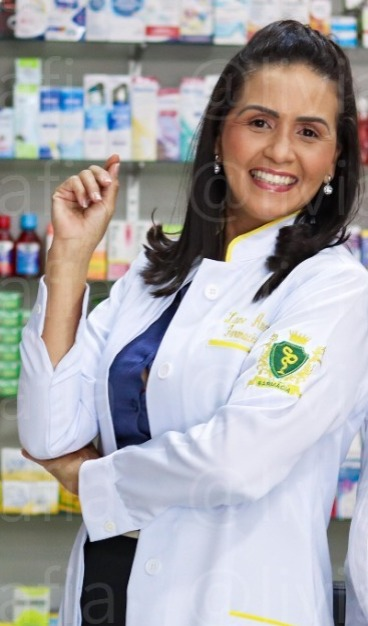
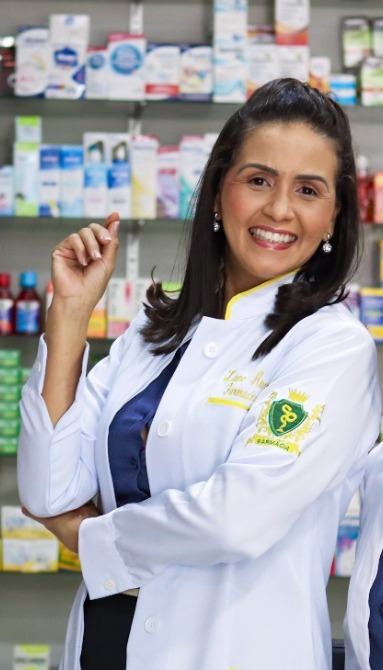
Update files

diff --git a/css/servicos.css b/css/servicos.css
@@ -99,28 +99,34 @@ main {
   display: flex;
   align-items: center;
   flex-direction: column;
-  width: 90%;
+  width: 80%;
   height: 100%;
   box-shadow: rgba(0, 0, 0, 0.24) 0px 3px 8px;
   margin-top: 40px;
   padding: 10px;
   border-radius: 10px;
-  gap: 20px;
+  gap: 24px;
 }
 
 .attention h1 {
   text-align: center;
-  font-size: 30px;
+  font-size: clamp(24px, 4vw, 32px);
 }
 
 .attention .attention-img {
-  width: 200px;
-  height: 400px;
+  max-width: 300px;
+  width: 100%;
+  height: auto;
+}
+
+.attention .attention-img img {
+  width: 100%;
+  height: 100%;
+  border-radius: 10px;
 }
 
 .attention .container {
   display: flex;
-  align-items: center;
   justify-content: center;
   gap: 20px;
 }
@@ -128,16 +134,18 @@ main {
 .attention .content {
   max-width: 800px;
   width: 100%;
+  margin-top: 30px;
+  padding: 0 15px;
 }
 
 .attention .content p {
   text-indent: 30px;
+  font-size: clamp(16px, 2.5vw, 20px);
 }
 
 .attention .btn-link {
-  display: inline-block;
+  padding-left: 10px;
   border: 0;
-  font-size: 16px;
   color: var(--font-color);
   font-family: "Roboto", sans-serif !important;
   font-weight: bold;
@@ -150,6 +158,21 @@ main {
   .services h2 {
     font-size: 20px;
   }
+
+  .attention {
+    width: 90%;
+    margin-top: 20px;
+    margin-bottom: 10px;
+  }
+
+  .attention .container {
+    flex-direction: column;
+    align-items: center;
+  }
+
+  .attention .content {
+    margin-top: 0px;
+  }
 }
 
 @media (max-width: 468px) {
@@ -159,5 +182,19 @@ main {
 
   .pressao {
     padding: 20px 10px 20px 10px;
+  }
+
+  .attention .attention-img {
+    width: 100%;
+    height: 100%;
+  }
+
+  .attention .content {
+    max-width: 100%;
+    padding: 0px;
+  }
+
+  .attention .content p {
+    text-indent: 10px;
   }
 }

diff --git a/pages/produtos.html b/pages/produtos.html
@@ -51,11 +51,11 @@
             <img
               src="../assets/imagens/produtos-img/1.png"
               class="card-img-top"
-              alt="Aparelho de Pressão Digital Automatico de Pulso"
+              alt="Aparelho de Pressão Digital Automático de Pulso"
             />
             <div class="card-body">
               <h5 class="card-title">
-                Aparelho de Pressão Digital Automatico de Pulso
+                Aparelho de Pressão Digital Automático de Pulso
               </h5>
               <a
                 href="https://wa.me/p/9650749055033185/558796709476"
@@ -69,11 +69,11 @@
             <img
               src="../assets/imagens/produtos-img/2.png"
               class="card-img-top"
-              alt="Aparelho de Pressão Digital Automatico de Braço"
+              alt="Aparelho de Pressão Digital Automático de Braço"
             />
             <div class="card-body">
               <h5 class="card-title">
-                Aparelho de Pressão Digital Automatico de Braço
+                Aparelho de Pressão Digital Automático de Braço
               </h5>
               <a href="#" class="btn-link">Detalhes</a>
             </div>
@@ -274,7 +274,7 @@
               alt="Medidor de Glicemia Sanguinea"
             />
             <div class="card-body">
-              <h5 class="card-title">Medidor de Glicemia Sanguinea</h5>
+              <h5 class="card-title">Medidor de Glicemia Sanguínea</h5>
               <a href="#" class="btn-link">Detalhes</a>
             </div>
           </div>

diff --git a/pages/atencao-farmaceutica.html b/pages/atencao-farmaceutica.html
@@ -30,9 +30,8 @@
       <section class="attention">
         <h1>Atenção Farmacêutica</h1>
         <div class="container">
-          <div>
+          <div class="attention-img">
             <img
-              class="attention-img"
               src="../assets/imagens/lane-farmaceutica.jpeg"
               alt="Foto Lane"
             />

diff --git a/pages/legislacao.html b/pages/legislacao.html
@@ -1,0 +1,11 @@
+<!DOCTYPE html>
+<html lang="en">
+<head>
+    <meta charset="UTF-8">
+    <meta name="viewport" content="width=device-width, initial-scale=1.0">
+    <title>Document</title>
+</head>
+<body>
+    
+</body>
+</html>
